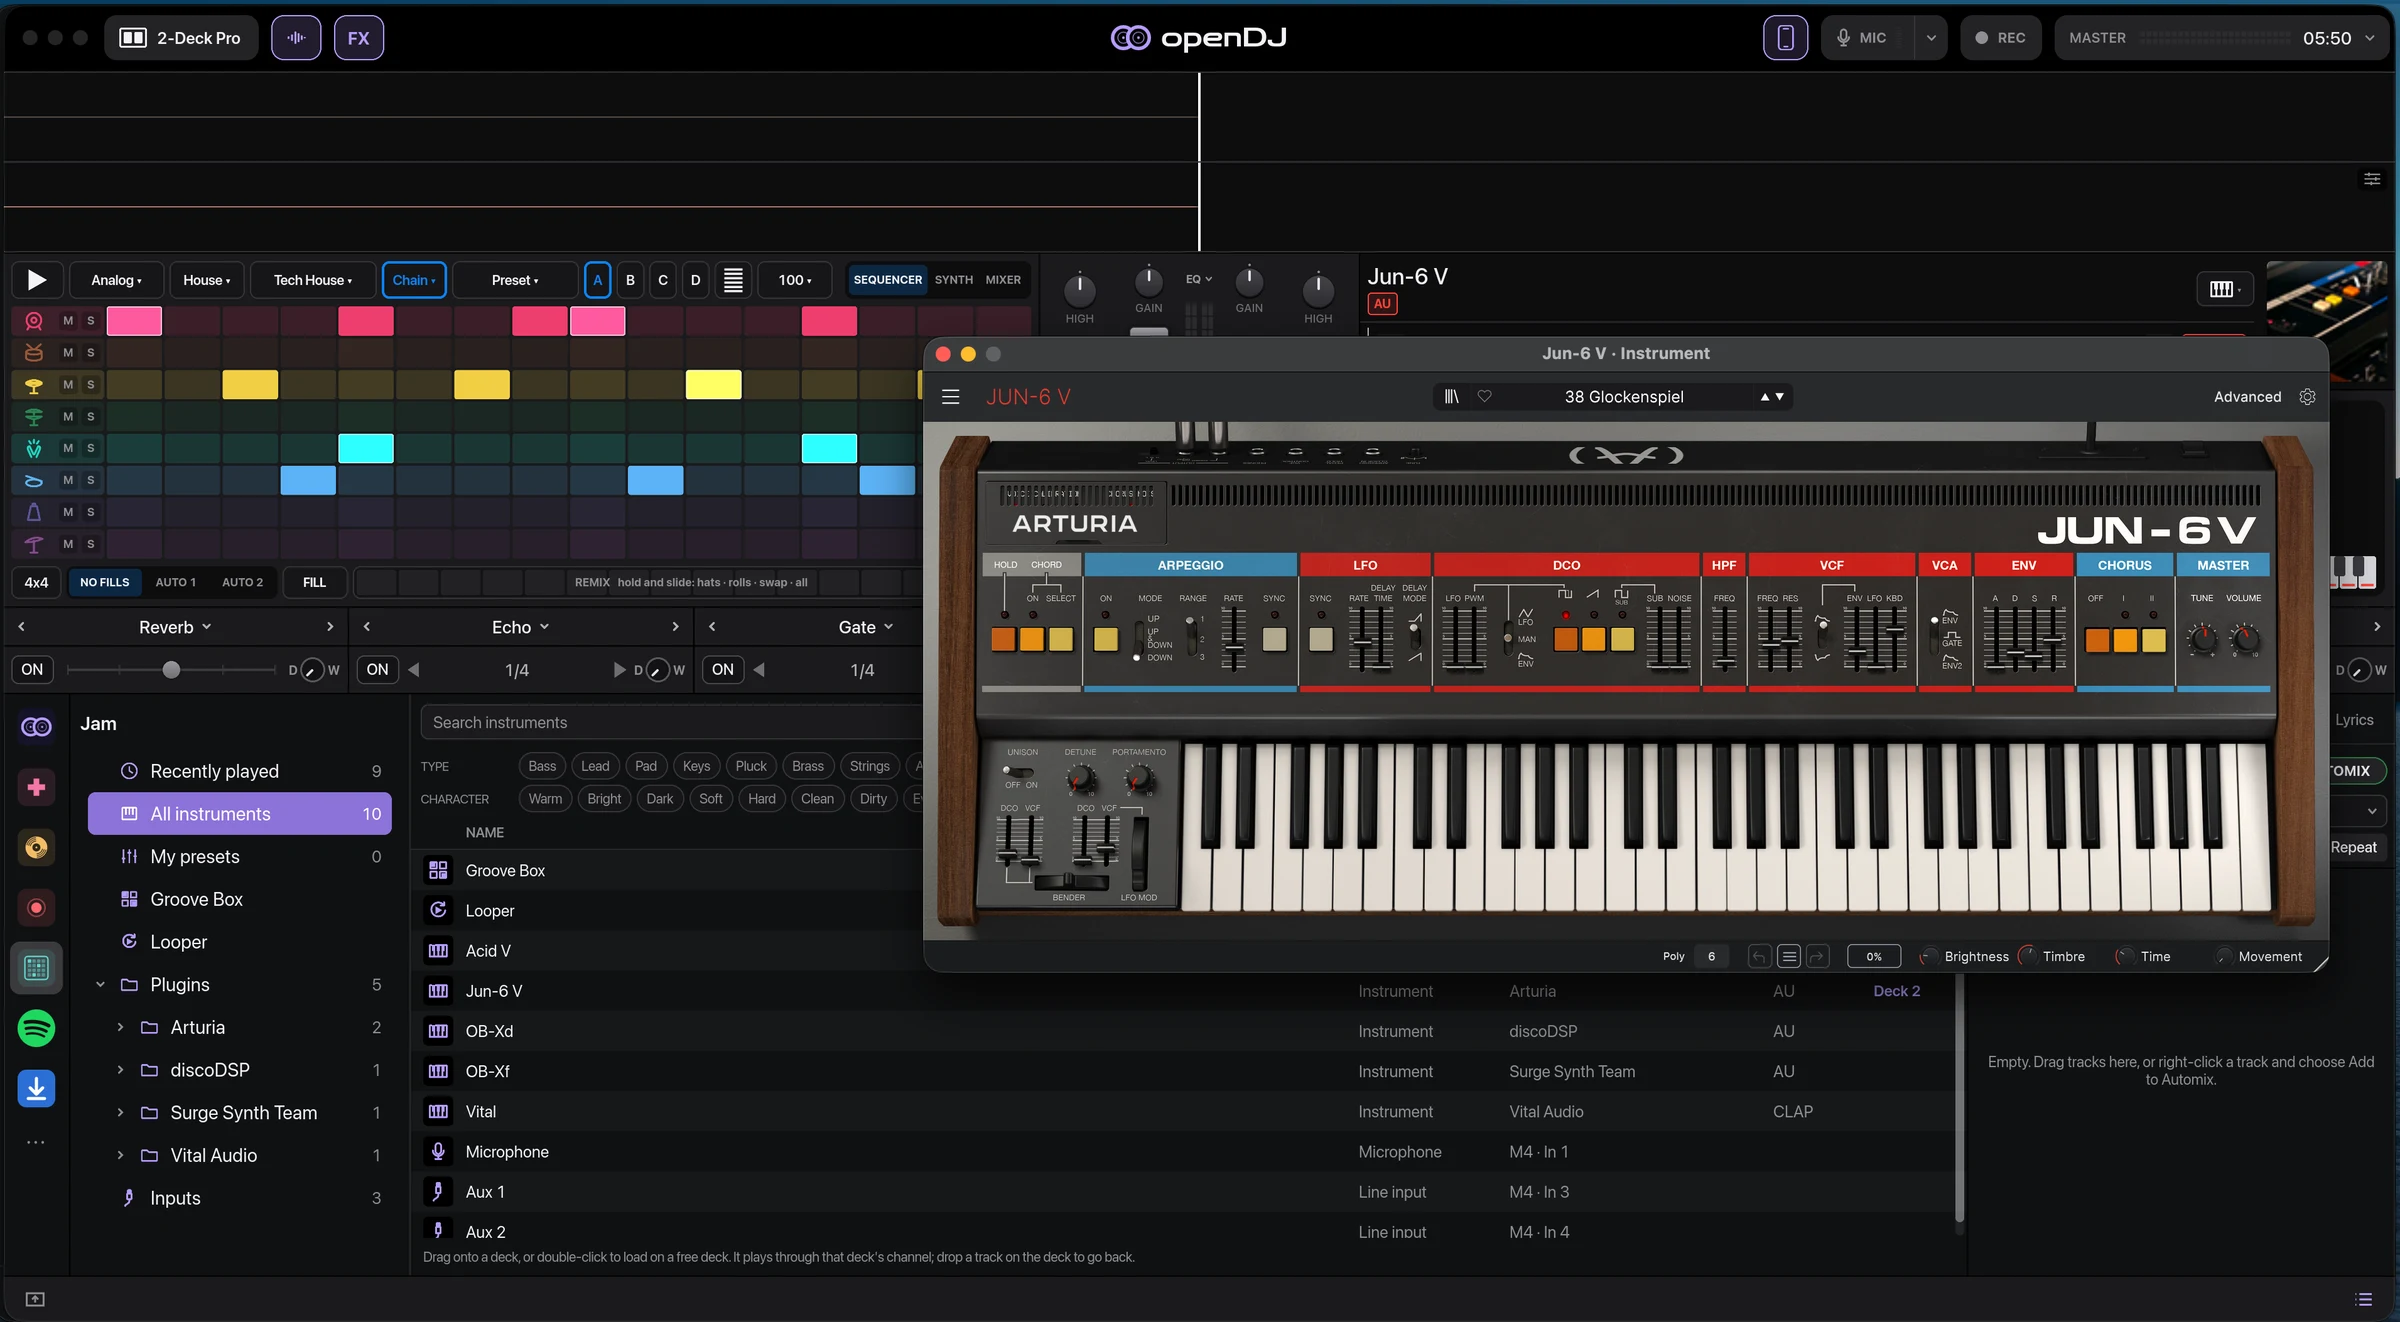
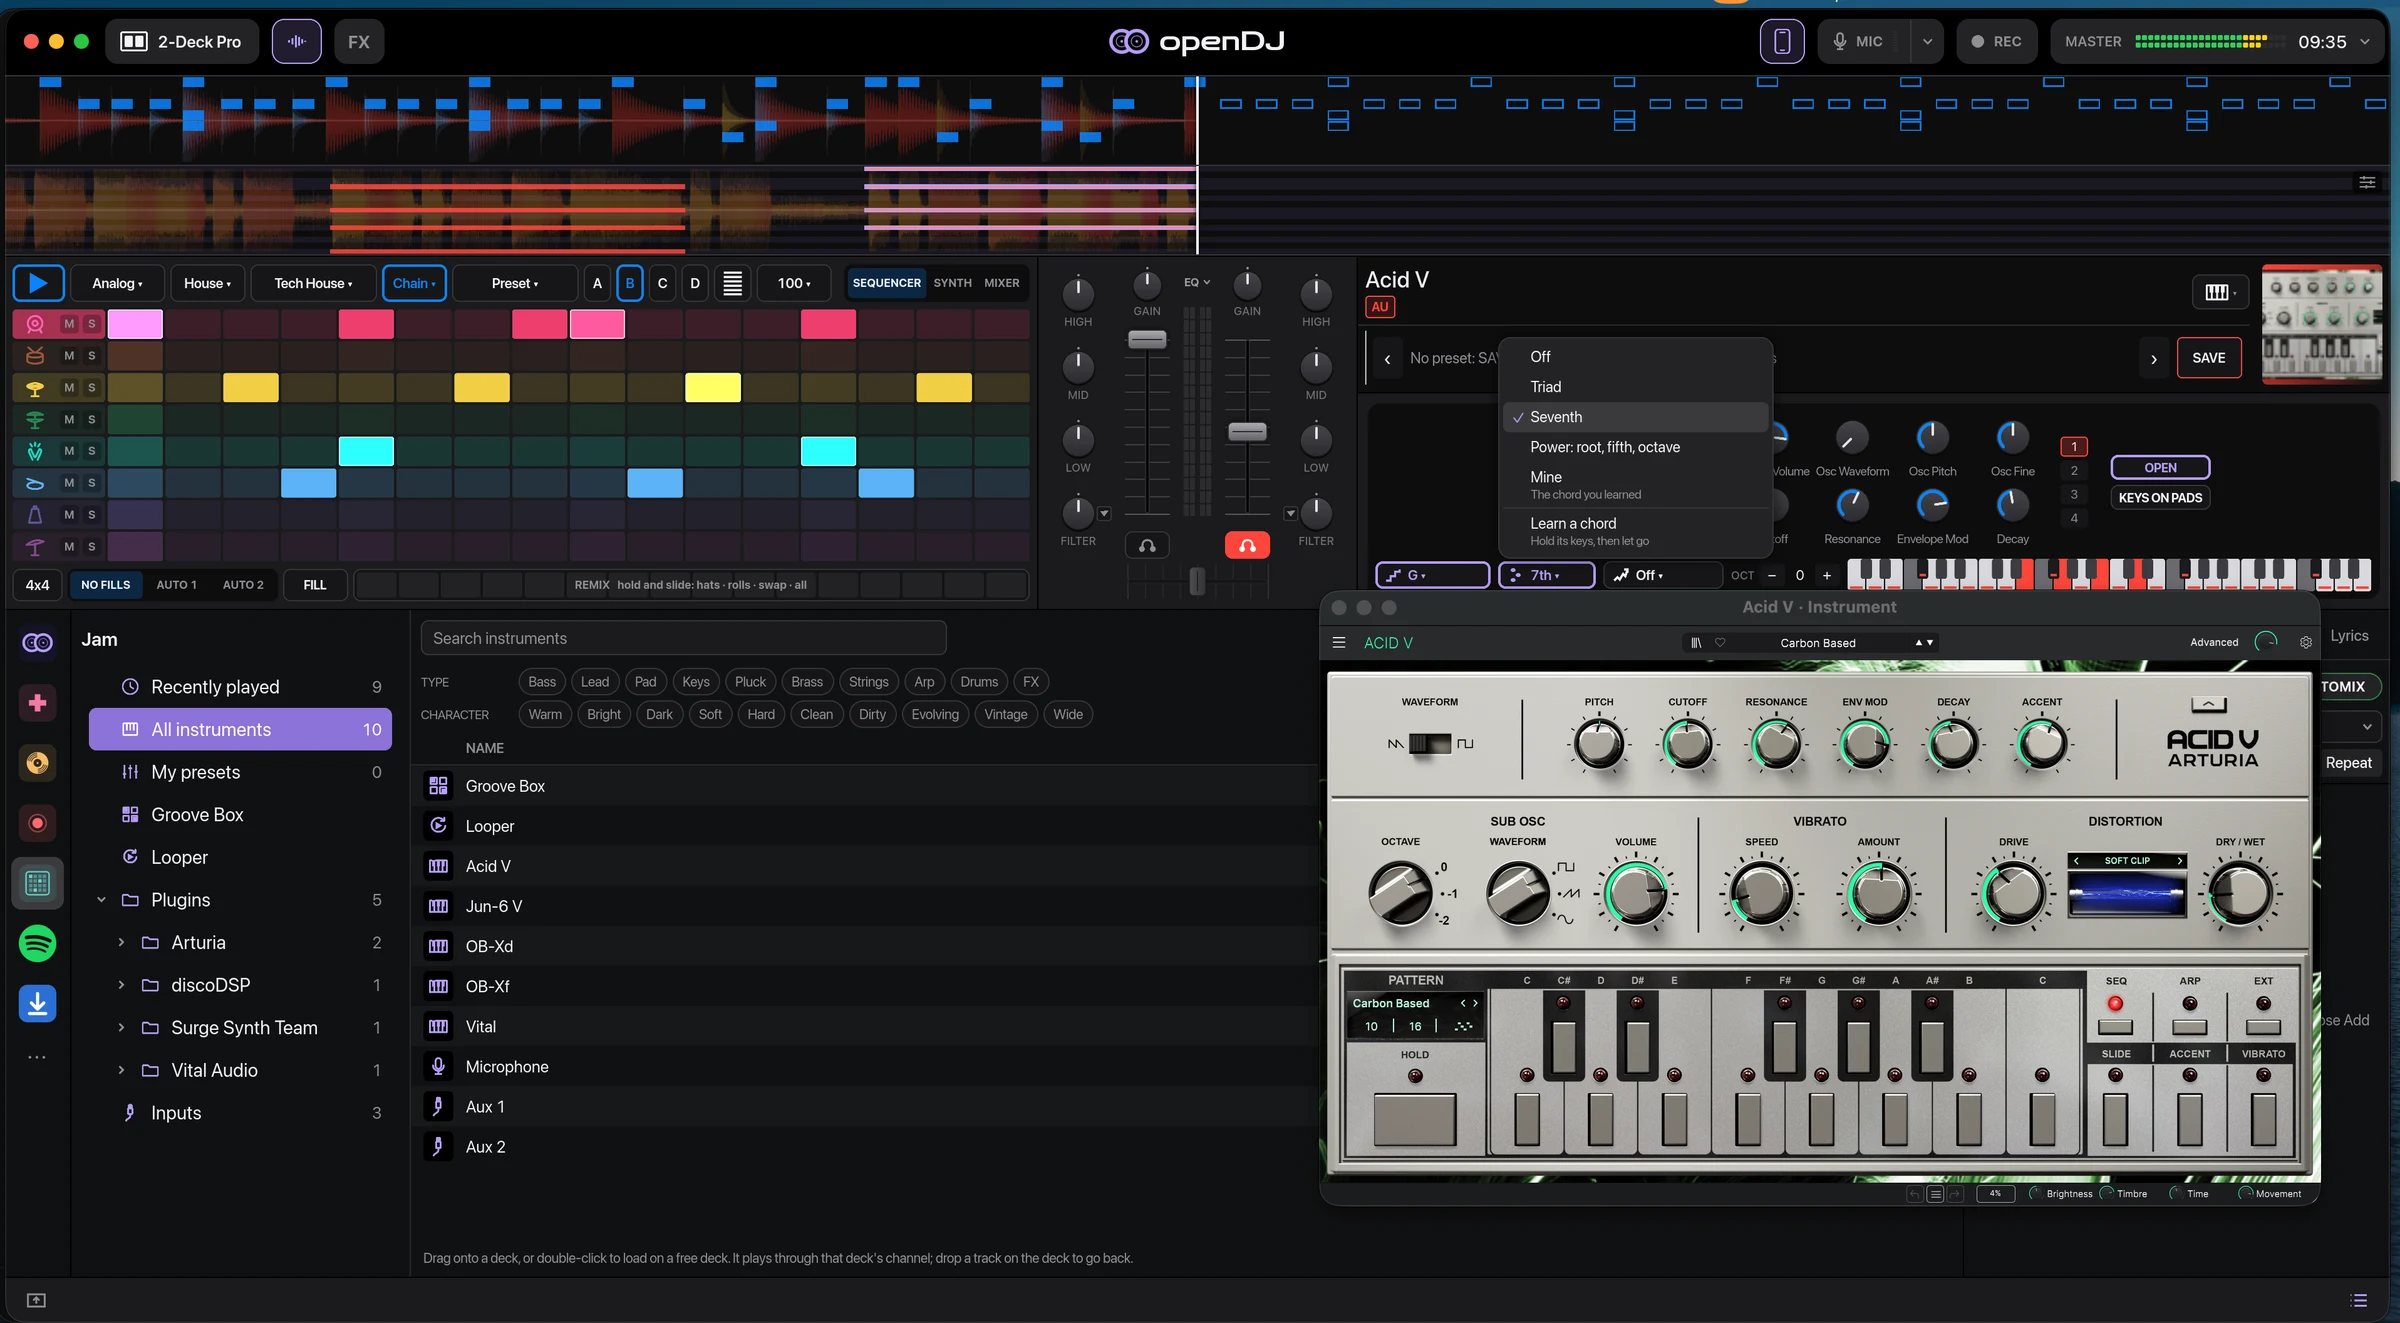
Website: Jam screenshot with the chord menu
Part of #618

Claude-Session: https://claude.ai/code/session_01SxHh7emHYK1HX484mEx9JK

diff --git a/website/index.html b/website/index.html
@@ -71,7 +71,7 @@
       <h2>Screenshots</h2>
       <div class="gal">
         <figure><a href="assets/home/hero.webp"><img src="assets/home/hero.webp" width="2400" height="1318" loading="lazy" alt="The 2-Deck Pro layout"></a><figcaption>The 2-Deck Pro layout</figcaption></figure>
-        <figure><a href="assets/home/jam.webp"><img src="assets/home/jam.webp" width="2400" height="1322" loading="lazy" alt="Jam: the Groove Box and an Arturia Jun-6 V synth on the decks, with the instrument list below"></a><figcaption>Jam: the Groove Box and a plugin synth</figcaption></figure>
+        <figure><a href="assets/home/jam.webp"><img src="assets/home/jam.webp" width="2400" height="1323" loading="lazy" alt="Jam: the Groove Box on one deck and an Arturia Acid V synth on the other, with the chord menu open"></a><figcaption>Jam: the Groove Box and a plugin synth with chords</figcaption></figure>
         <figure><a href="assets/home/health.webp"><img src="assets/home/health.webp" width="2400" height="1328" loading="lazy" alt="Collection Health"></a><figcaption>Collection Health</figcaption></figure>
         <figure><a href="assets/home/sources.webp"><img src="assets/home/sources.webp" width="1812" height="990" loading="lazy" alt="Browsing Spotify"></a><figcaption>Browsing Spotify</figcaption></figure>
         <figure><a href="assets/home/controller-editor.webp"><img src="assets/home/controller-editor.webp" width="2000" height="1261" loading="lazy" alt="Controller Editor"></a><figcaption>Controller Editor</figcaption></figure>
